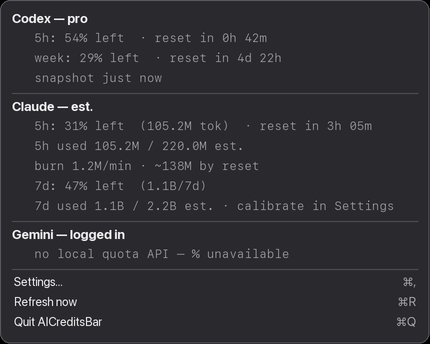
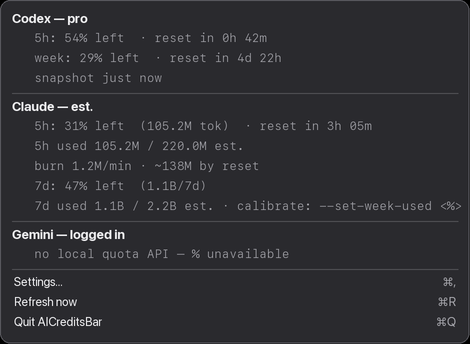
fix: stop the bar flapping between official ⇄ estimate on transient failures
Root cause of "sometimes wrong / weird / no proper numbers": readCodex()/readClaude()
hit the web APIs on every 30s tick AND on every menu open; any transient failure
(timeout, rate-limit, Cloudflare challenge) fell back to the local estimate/disk, so
the displayed % jumped between the official value and a divergent estimate.

- Add an official-result cache: reuse a good reading for 60s (no network, no flap, no
  hammering), and on a failed refresh hold the last-good official for up to 30 min with
  a quiet "↻ refresh failed" note instead of flipping to the estimate.
- Codex official: accept relative reset_after_seconds as well as absolute reset_at.
- Unit test for the cache (success / throttle / fallback). 31 unit + 8 e2e green.

diff --git a/Sources/Providers.swift b/Sources/Providers.swift
@@ -143,7 +143,7 @@ func readClaudeLocal() -> ProviderStatus {
     let weekTokens = claudeWeekTokens(events)
     let wb = Cfg.claudeWeekBudget
     st.weekly = WindowStat(remaining: max(0, min(100, Int((100 * (1 - weekTokens / wb)).rounded()))), note: "\(tokLabel(weekTokens))/7d")
-    st.details.append("7d used \(tokLabel(weekTokens)) / \(tokLabel(wb)) est. · calibrate in Settings")
+    st.details.append("7d used \(tokLabel(weekTokens)) / \(tokLabel(wb)) est. · calibrate: --set-week-used <%>")
     return st
 }
 
@@ -258,7 +258,8 @@ func readCodexOfficial() -> ProviderStatus {
           let u = try? JSONDecoder().decode(CodexUsageWire.self, from: ur.body) else { st.problem = "usage unavailable"; return st }
     func win(_ w: CodexWindowWire?) -> WindowStat? {
         guard let w = w else { return nil }
-        let reset = w.reset_at.map { Double($0) }
+        // Accept either an absolute reset_at or a relative reset_after_seconds.
+        let reset = w.reset_at.map { Double($0) } ?? w.reset_after_seconds.map { nowEpoch() + Double($0) }
         let refilled = (reset ?? .greatestFiniteMagnitude) <= nowEpoch()
         return WindowStat(remaining: refilled ? 100 : max(0, min(100, Int((100 - w.used_percent).rounded()))), resetEpoch: reset, refilled: refilled)
     }
@@ -269,22 +270,39 @@ func readCodexOfficial() -> ProviderStatus {
     return st
 }
 
+// ---- official result cache (stops the bar flapping between official ⇄ estimate on a
+//      transient network hiccup, and avoids hammering the web APIs on every 30s tick).
+let OFFICIAL_TTL: Double = 60          // reuse a good official reading without re-fetching for this long
+let OFFICIAL_MAX_AGE: Double = 30 * 60 // keep showing the last good official up to here when refresh fails
+struct CachedOfficial { var status: ProviderStatus; var at: Double }
+var officialCache: [String: CachedOfficial] = [:]
+let officialLock = NSLock()
+func cachedOfficial(_ k: String) -> CachedOfficial? { officialLock.lock(); defer { officialLock.unlock() }; return officialCache[k] }
+func storeOfficial(_ k: String, _ s: ProviderStatus) { officialLock.lock(); defer { officialLock.unlock() }; officialCache[k] = CachedOfficial(status: s, at: nowEpoch()) }
+func clearOfficial(_ k: String) { officialLock.lock(); defer { officialLock.unlock() }; officialCache[k] = nil }
+
+// Try official; on failure prefer the last good official over a divergent fallback. `fetch`
+// returns a ProviderStatus whose `.available` indicates success; `fallback` is the local reader.
+func officialOrCached(_ key: String, fetch: () -> ProviderStatus, fallback: () -> ProviderStatus, fallbackNote: (String) -> String) -> ProviderStatus {
+    if let c = cachedOfficial(key), nowEpoch() - c.at < OFFICIAL_TTL { return c.status }   // fresh enough: no network
+    let off = fetch()
+    if off.available { storeOfficial(key, off); return off }
+    if let c = cachedOfficial(key), nowEpoch() - c.at < OFFICIAL_MAX_AGE {                 // transient fail: hold last good
+        var s = c.status; s.details.append("↻ refresh failed (\(off.problem ?? "")) — last good \(ageLabel(nowEpoch() - c.at))"); return s
+    }
+    var local = fallback(); local.details.insert(fallbackNote(off.problem ?? "failed"), at: 0); return local
+}
+
 // ---- dispatchers: official (if a token is set) first, else local ----
 func readClaude() -> ProviderStatus {
-    guard !Cfg.claudeSessionKey.isEmpty else { return readClaudeLocal() }
-    let off = readClaudeOfficial()
-    if off.available { return off }
-    var local = readClaudeLocal()
-    local.details.insert("⚠ official login: \(off.problem ?? "failed") — showing estimate", at: 0)
-    return local
+    guard !Cfg.claudeSessionKey.isEmpty else { clearOfficial("Cl"); return readClaudeLocal() }
+    return officialOrCached("Cl", fetch: readClaudeOfficial, fallback: readClaudeLocal,
+                            fallbackNote: { "⚠ official login: \($0) — showing estimate" })
 }
 func readCodex() -> ProviderStatus {
-    guard !Cfg.codexSessionToken.isEmpty || codexCLIAccessToken() != nil else { return readCodexLocal() }
-    let off = readCodexOfficial()
-    if off.available { return off }
-    var local = readCodexLocal()   // disk rate_limits are also official, just updated only when codex runs
-    local.details.insert("⚠ live: \(off.problem ?? "failed") — showing last disk snapshot", at: 0)
-    return local
+    guard !Cfg.codexSessionToken.isEmpty || codexCLIAccessToken() != nil else { clearOfficial("Cx"); return readCodexLocal() }
+    return officialOrCached("Cx", fetch: readCodexOfficial, fallback: readCodexLocal,
+                            fallbackNote: { "⚠ live: \($0) — showing last disk snapshot" })
 }
 
 // MARK: - Gemini (best-effort status)

diff --git a/Sources/Settings.swift b/Sources/Settings.swift
@@ -6,13 +6,12 @@ final class SettingsWindow: NSObject, NSWindowDelegate, NSTextFieldDelegate {
     var window: NSWindow?
     var onChange: () -> Void = {}
 
-    let modePopup = NSPopUpButton(); let planPopup = NSPopUpButton()
+    let modePopup = NSPopUpButton()
     let cCodex = NSButton(checkboxWithTitle: "Codex", target: nil, action: nil)
     let cClaude = NSButton(checkboxWithTitle: "Claude", target: nil, action: nil)
     let cGemini = NSButton(checkboxWithTitle: "Gemini", target: nil, action: nil)
     let cLabels = NSButton(checkboxWithTitle: "Show provider labels (Cx/Cl/Gm)", target: nil, action: nil)
     let fRefresh = NSTextField(); let fGreen = NSTextField(); let fYellow = NSTextField()
-    let f5hBudget = NSTextField(); let fWkBudget = NSTextField()
     let wHigh = NSColorWell(); let wMid = NSColorWell(); let wLow = NSColorWell(); let wUnknown = NSColorWell()
     let claudeLogin = WebLoginWindow(); let codexLogin = WebLoginWindow()
     let claudeStatus = NSTextField(labelWithString: ""); let codexStatus = NSTextField(labelWithString: "")
@@ -41,7 +40,6 @@ final class SettingsWindow: NSObject, NSWindowDelegate, NSTextFieldDelegate {
 
         // --- controls ---
         modePopup.addItems(withTitles: ["5-hour window", "Weekly window", "Both (5h/week)", "Lowest"]); modePopup.target = self; modePopup.action = #selector(changed(_:))
-        planPopup.addItems(withTitles: ["Pro", "Max 5x", "Max 20x", "Custom"]); planPopup.target = self; planPopup.action = #selector(changed(_:))
         for b in [cCodex, cClaude, cGemini, cLabels] { b.target = self; b.action = #selector(changed(_:)) }
         num(fRefresh, 56); num(fGreen, 46); num(fYellow, 46)
         for w in [wHigh, wMid, wLow, wUnknown] { well(w) }
@@ -133,10 +131,7 @@ final class SettingsWindow: NSObject, NSWindowDelegate, NSTextFieldDelegate {
         cCodex.state = Cfg.showCodex ? .on : .off; cClaude.state = Cfg.showClaude ? .on : .off
         cGemini.state = Cfg.showGemini ? .on : .off; cLabels.state = Cfg.showLabels ? .on : .off
         fRefresh.stringValue = String(Int(Cfg.refreshInterval)); fGreen.stringValue = String(Cfg.greenAbove); fYellow.stringValue = String(Cfg.yellowAbove)
-        f5hBudget.stringValue = String(format: "%g", Cfg.claude5hBudget/1_000_000); fWkBudget.stringValue = String(format: "%g", Cfg.claudeWeekBudget/1_000_000)
-        planPopup.selectItem(withTitle: Cfg.planBudgets[Cfg.claudePlan] != nil ? Cfg.claudePlan : "Custom")
         wHigh.color = Cfg.colorHigh; wMid.color = Cfg.colorMid; wLow.color = Cfg.colorLow; wUnknown.color = Cfg.colorUnknown
-        f5hBudget.isEnabled = (planPopup.titleOfSelectedItem == "Custom")
         claudeStatus.stringValue = Cfg.claudeSessionKey.isEmpty ? "not logged in — using estimate" : "✓ logged in — exact official %"
         claudeStatus.textColor = Cfg.claudeSessionKey.isEmpty ? .secondaryLabelColor : .systemGreen
         // Codex needs no browser login when the codex CLI is already authed — hide the button then.
@@ -159,12 +154,6 @@ final class SettingsWindow: NSObject, NSWindowDelegate, NSTextFieldDelegate {
         if let r = Double(fRefresh.stringValue) { Cfg.refreshInterval = r }
         if let g = Int(fGreen.stringValue) { Cfg.greenAbove = max(0, min(100, g)) }
         if let y = Int(fYellow.stringValue) { Cfg.yellowAbove = max(0, min(100, y)) }
-        if let plan = planPopup.titleOfSelectedItem {
-            Cfg.claudePlan = plan
-            if let b = Cfg.planBudgets[plan] { Cfg.claude5hBudget = b }
-            else if let m = Double(f5hBudget.stringValue), m > 0 { Cfg.claude5hBudget = m * 1_000_000 }
-        }
-        if let m = Double(fWkBudget.stringValue), m > 0 { Cfg.claudeWeekBudget = m * 1_000_000 }
         load(); onChange()
     }
     // Save ONLY the well the user actually changed, so untouched colors keep their

diff --git a/Tests/main.swift b/Tests/main.swift
@@ -59,6 +59,23 @@ eq(windowText(WindowStat(remaining: 54)), "54%", "windowText percent")
 eq(windowText(WindowStat(remaining: 100, refilled: true)), "↑", "windowText refilled glyph")
 eq(windowText(nil), "?", "windowText nil → ?")
 
+// ---- official cache: throttle + no flapping ----
+var fetches = 0
+func goodFetch() -> ProviderStatus { fetches += 1; var s = ProviderStatus(key: "T", name: "T", available: true); s.fiveHour = WindowStat(remaining: 73); return s }
+func locFetch() -> ProviderStatus { var s = ProviderStatus(key: "T", name: "T", available: true); s.fiveHour = WindowStat(remaining: 12); return s }
+func badFetch() -> ProviderStatus { ProviderStatus(key: "T", name: "T", available: false) }
+clearOfficial("UT")
+let oc1 = officialOrCached("UT", fetch: goodFetch, fallback: locFetch, fallbackNote: { _ in "fb" })
+eq(oc1.fiveHour?.remaining, 73, "official success returns the official value")
+eq(fetches, 1, "fetched exactly once")
+let oc2 = officialOrCached("UT", fetch: goodFetch, fallback: locFetch, fallbackNote: { _ in "fb" })
+eq(oc2.fiveHour?.remaining, 73, "within TTL returns cached value (no flap)")
+eq(fetches, 1, "no re-fetch within TTL (no hammering)")
+clearOfficial("UT2")
+let oc3 = officialOrCached("UT2", fetch: badFetch, fallback: locFetch, fallbackNote: { _ in "fb-note" })
+eq(oc3.fiveHour?.remaining, 12, "failure with no cache → fallback value")
+check(oc3.details.first == "fb-note", "fallback note is prepended on failure")
+
 let summary = "\(passed) passed, \(failures) failed"
 print(failures == 0 ? "✓ unit: \(summary)" : "✗ unit: \(summary)")
 exit(failures == 0 ? 0 : 1)

diff --git a/docs/render_images.py b/docs/render_images.py
@@ -92,7 +92,7 @@ def render_dropdown():
         ("det","   5h used 105.2M / 220.0M est.", SUB),
         ("det","   burn 1.2M/min · ~138M by reset", SUB),
         ("det","   7d: 47% left  (1.1B/7d)", SUB),
-        ("det","   7d used 1.1B / 2.2B est. · calibrate in Settings", SUB),
+        ("det","   7d used 1.1B / 2.2B est. · calibrate: --set-week-used <%>", SUB),
         ("sep",None,None),
         ("head","Gemini — logged in", WHITE),
         ("det","   no local quota API — % unavailable", SUB),
@@ -101,7 +101,7 @@ def render_dropdown():
         ("item","Refresh now","⌘R"),
         ("item","Quit AICreditsBar","⌘Q"),
     ]
-    pad=10; lh=20; W=430
+    pad=10; lh=20; W=470
     H = pad*2 + sum(8 if r[0]=="sep" else lh for r in rows)
     img = Image.new("RGB",(W*S,H*S),(0,0,0)); d=ImageDraw.Draw(img)
     rrect(d,(0,0,W-1,H-1),10,MENU_BG,outline=(90,90,96),w=1)

diff --git a/README.md b/README.md
@@ -76,6 +76,34 @@ Quit from the menu (**Quit AICreditsBar**) or `pkill -x aicreditsbar`. Print val
 
 Start at login (optional): `bash scripts/install-login-item.sh` (remove with `-u`).
 
+### Command-line flags
+
+All flags run headless (no GUI) against `aicreditsbar` in the app bundle:
+
+```bash
+B=./AICreditsBar.app/Contents/MacOS/aicreditsbar
+
+$B --once                    # print all providers' status once, then exit
+$B --dump-config             # print effective settings (then prints --once output)
+
+# Calibrate the Claude *estimate* to match what /usage actually shows.
+# Open Claude's /usage, read the "used" %, and pass it here — the budget is
+# back-solved from your real 7-day / current-5h-block token totals on disk.
+$B --set-week-used 35        # "weekly shows 35% used" → calibrates the 7-day budget
+$B --set-5h-used 60          # "5h block shows 60% used" → calibrates the 5-hour budget
+
+# Official exact-% logins (alternative to the in-app Settings → Log in flow):
+$B --set-claude-key <key>    # store a claude.ai sessionKey cookie
+$B --set-codex-token <tok>   # store a chatgpt.com session-token (Codex usually needs none)
+$B --clear-logins            # drop both official tokens; revert to local estimate/disk
+
+$B --render-settings out.png # render the Settings window to a PNG (design check)
+```
+
+> Calibration and the budget used for the Claude estimate live behind these CLI flags —
+> there is no plan/budget control in the Settings window (which covers display mode,
+> providers, thresholds, colors, and accurate login only).
+
 ### Project structure
 
 ```
@@ -173,6 +201,33 @@ open AICreditsBar.app  # 메뉴바 에이전트 실행 (Dock 아이콘 없음)
 ```
 
 로그인 시 자동 시작(선택): `bash scripts/install-login-item.sh` (제거는 `-u`).
+
+### 커맨드라인 플래그
+
+모든 플래그는 GUI 없이 앱 번들의 `aicreditsbar`를 실행합니다:
+
+```bash
+B=./AICreditsBar.app/Contents/MacOS/aicreditsbar
+
+$B --once                    # 모든 제공자 상태를 한 번 출력 후 종료
+$B --dump-config             # 적용된 설정 출력 (이어서 --once 출력)
+
+# Claude *추정치*를 /usage 실제 표시값에 맞춰 보정.
+# Claude의 /usage에서 "used" %를 읽어 넘기면, 디스크의 실제 7일 / 현재 5h 블록
+# 토큰 합계로부터 예산을 역산합니다.
+$B --set-week-used 35        # "주간 35% 사용" → 7일 예산 보정
+$B --set-5h-used 60          # "5h 블록 60% 사용" → 5시간 예산 보정
+
+# 공식 정확값 로그인 (인앱 Settings → Log in 대신 사용 가능):
+$B --set-claude-key <key>    # claude.ai sessionKey 쿠키 저장
+$B --set-codex-token <tok>   # chatgpt.com session-token 저장 (Codex는 보통 불필요)
+$B --clear-logins            # 두 공식 토큰 삭제; 로컬 추정치/디스크로 복귀
+
+$B --render-settings out.png # Settings 창을 PNG로 렌더 (디자인 확인)
+```
+
+> 보정과 Claude 추정치 예산은 위 CLI 플래그로만 설정합니다 — 설정 창에는 플랜/예산
+> 컨트롤이 없습니다(설정 창은 표시 모드·제공자·임계값·색상·정확 로그인만 다룸).
 
 ### 프로젝트 구조
 
